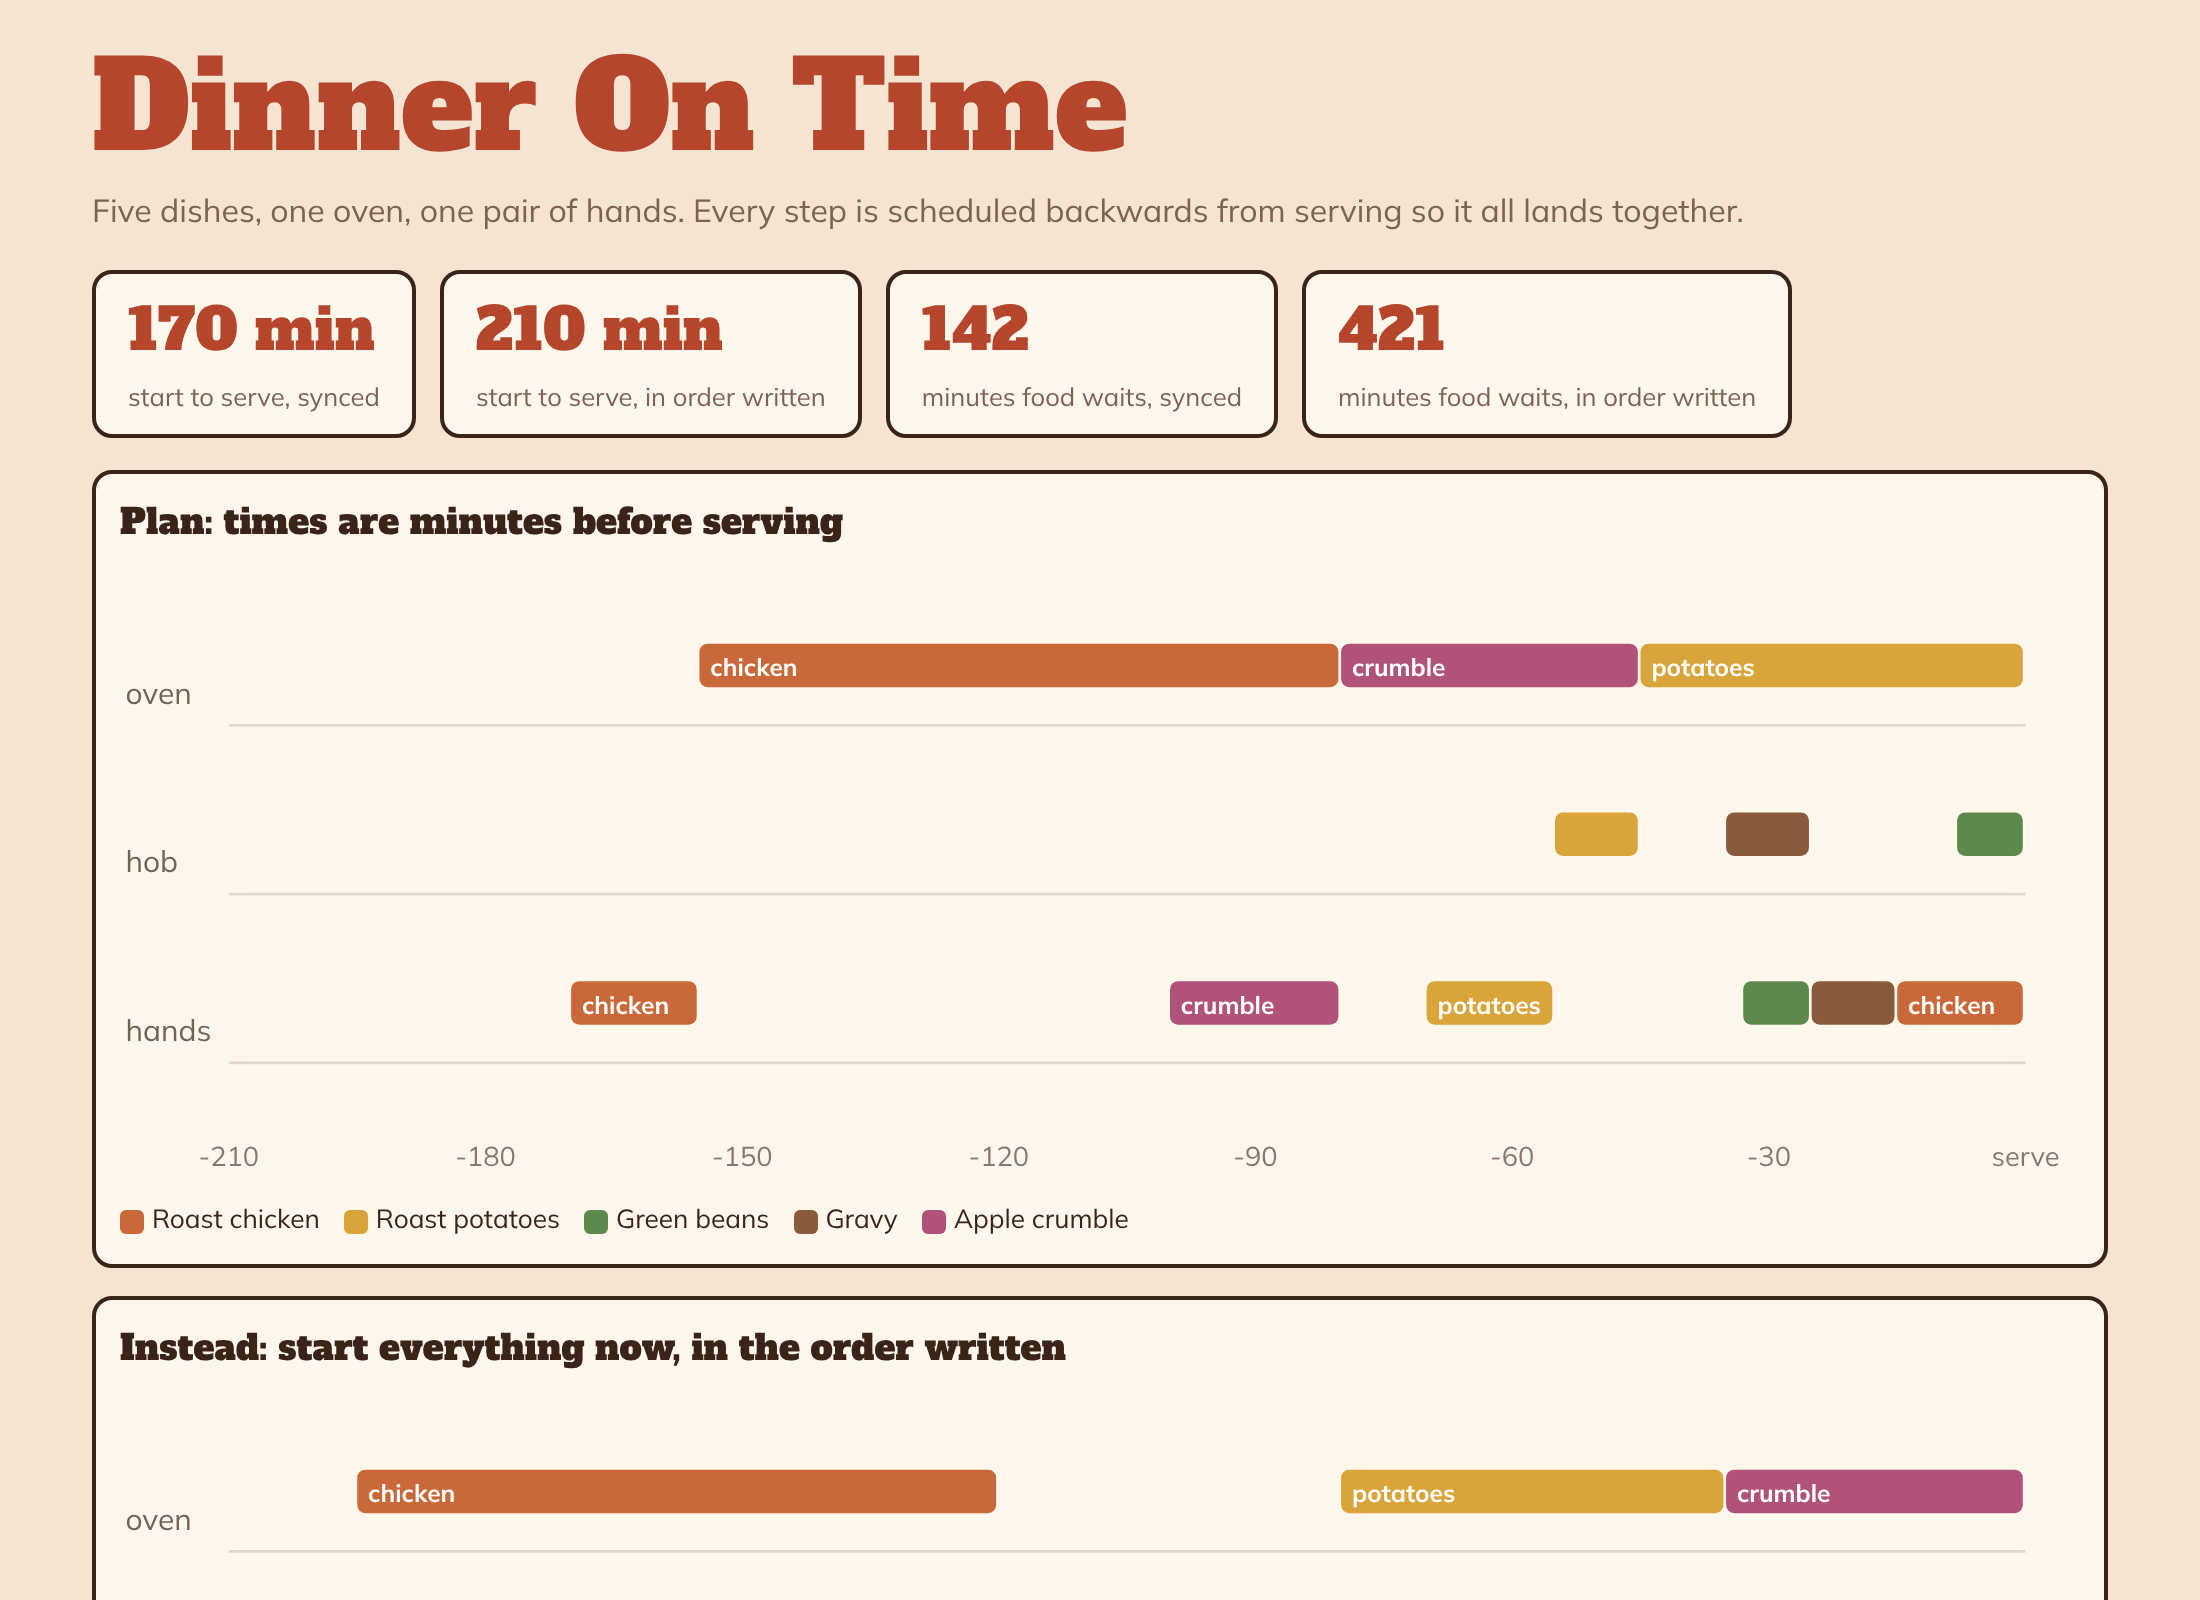
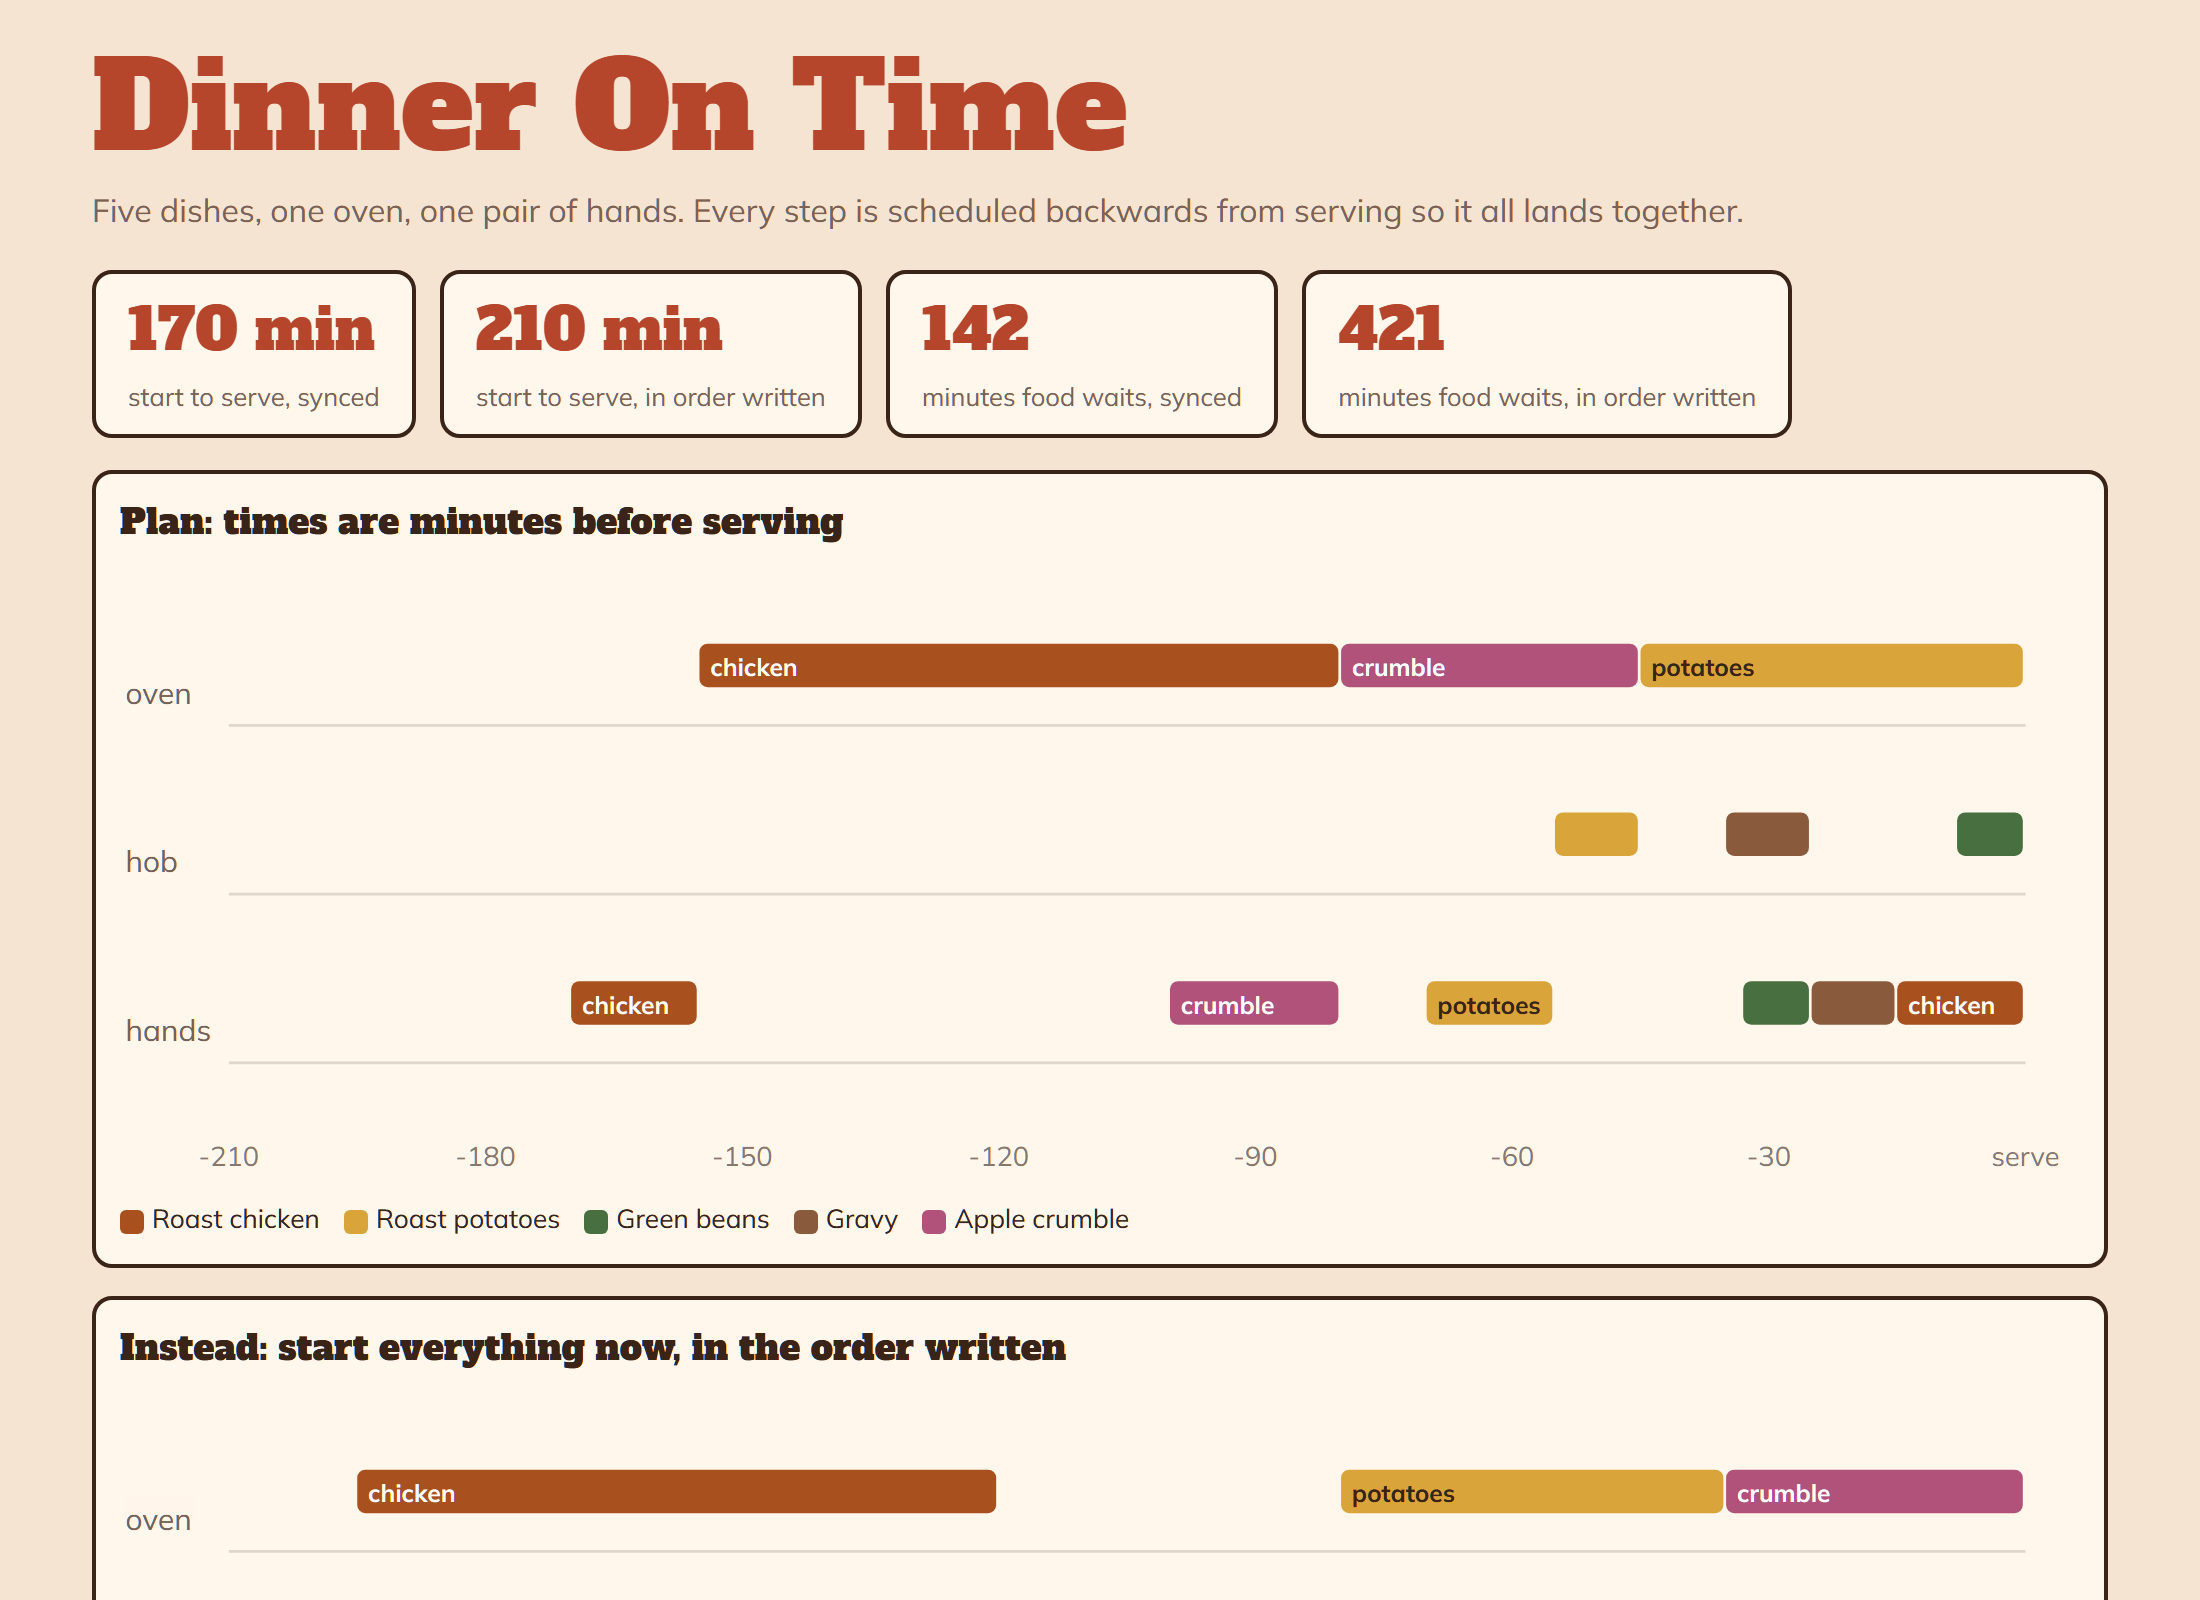
Fix bar label contrast: dinner-sync-planner

diff --git a/static/index.html b/static/index.html
@@ -1,13 +1,15 @@
 <!doctype html><html lang="en"><head><meta charset="utf-8"><meta name="viewport" content="width=device-width,initial-scale=1"><title>Dinner On Time</title>
 <link href="https://fonts.googleapis.com/css2?family=Alfa+Slab+One&family=Mulish:wght@400;700&display=swap" rel="stylesheet">
 <style>
-:root{--bg:#f6e4d2;--card:#fff6ec;--ink:#3a2418;--mute:#7c6252;--brick:#b5452b;--line:#e1c6ac;--chicken:#c9693a;--potato:#d9a53a;--beans:#5c8a4d;--gravy:#8a5a3c;--crumble:#b0527a}
+:root{--bg:#f6e4d2;--card:#fff6ec;--ink:#3a2418;--mute:#7c6252;--brick:#b5452b;--line:#e1c6ac;--chicken:#a8511f;--potato:#d9a53a;--beans:#476f3f;--gravy:#8a5a3c;--crumble:#b0527a}
 @media(prefers-color-scheme:dark){:root{--bg:#1f1612;--card:#2a1e18;--ink:#f6e9dc;--mute:#bfa592;--brick:#ff7d5c;--line:#483528;--chicken:#e08a58;--potato:#e8bb52;--beans:#7fb36d;--gravy:#b88360;--crumble:#d878a4}}
 *{box-sizing:border-box}body{margin:0;background:var(--bg);color:var(--ink);font:16px/1.5 Mulish,sans-serif}
 main{max-width:1040px;margin:auto;padding:24px 16px 56px}h1{font:400 clamp(2.2rem,8vw,3.8rem)/1 "Alfa Slab One";margin:0;color:var(--brick)}.sub{color:var(--mute);margin:8px 0 18px}
 .stats{display:flex;flex-wrap:wrap;gap:12px;margin-bottom:16px}.s{background:var(--card);border:2px solid var(--ink);border-radius:10px;padding:8px 16px}.s b{display:block;font:400 1.8rem "Alfa Slab One";color:var(--brick)}.s span{font-size:.8rem;color:var(--mute)}
 .panel{background:var(--card);border:2px solid var(--ink);border-radius:10px;padding:12px;margin-bottom:14px;overflow-x:auto}.panel h2{margin:0 0 8px;font:400 1.1rem "Alfa Slab One"}
 svg{width:100%;min-width:680px;height:auto;display:block}.legend{display:flex;flex-wrap:wrap;gap:12px;font-size:.82rem;margin-top:6px}.legend i{display:inline-block;width:12px;height:12px;border-radius:3px;margin-right:4px;vertical-align:middle}
+.lb{fill:#fff}.lb.k{fill:#3a2418}
+@media(prefers-color-scheme:dark){.lb,.lb.k{fill:#1f1612}}
 </style></head><body><main>
 <h1>Dinner On Time</h1><p class="sub">Five dishes, one oven, one pair of hands. Every step is scheduled backwards from serving so it all lands together.</p>
 <div class="stats" id="st" aria-live="polite"></div><p id="planerr" role="status"></p>
@@ -20,7 +22,7 @@ function draw(el,slots,max){const X=m=>40+(max-m)/max*660,Y=l=>30+LANES.indexOf(
 LANES.forEach(l=>g+=`<text x="2" y="${Y(l)+22}" font-size="11" fill="currentColor" opacity=".7">${l}</text><line x1="40" x2="700" y1="${Y(l)+30}" y2="${Y(l)+30}" stroke="currentColor" opacity=".15"/>`);
 for(let m=0;m<=max;m+=30)g+=`<text x="${X(m)}" y="222" font-size="10" text-anchor="middle" fill="currentColor" opacity=".6">${m?"-"+m:"serve"}</text>`;
 const lanes={};slots.forEach(s=>{const k=s.resource;lanes[k]=lanes[k]||[];let row=0;while(lanes[k].some(o=>o.row===row&&o.s.end<s.start&&s.end<o.s.start))row++;lanes[k].push({s,row});
-const w=X(s.end)-X(s.start),y=Y(k)+row*18;g+=`<rect x="${X(s.start)}" y="${y}" width="${Math.max(w-1,2)}" height="16" rx="3" fill="${COL[s.dish]||"#888"}"><title>${s.dish}: ${s.step} (${s.start-s.end} min)</title></rect>`;if(w>46)g+=`<text x="${X(s.start)+4}" y="${y+12}" font-size="9" fill="#fff" font-weight="700">${s.dish.split(" ")[1]||s.dish}</text>`});
+const w=X(s.end)-X(s.start),y=Y(k)+row*18;g+=`<rect x="${X(s.start)}" y="${y}" width="${Math.max(w-1,2)}" height="16" rx="3" fill="${COL[s.dish]||"#888"}"><title>${s.dish}: ${s.step} (${s.start-s.end} min)</title></rect>`;if(w>46)g+=`<text class="lb${s.dish==="Roast potatoes"?" k":""}" x="${X(s.start)+4}" y="${y+12}" font-size="9" font-weight="700">${s.dish.split(" ")[1]||s.dish}</text>`});
 $(el).innerHTML=g}
 (async()=>{try{const s=await (await fetch("/sample")).json();const r=await (await fetch("/plan",{method:"POST",headers:{"Content-Type":"application/json"},body:JSON.stringify({capacity:s.capacity,dishes:s.dishes})})).json();
 const mx=Math.max(r.synced.span,r.sequential.span);
